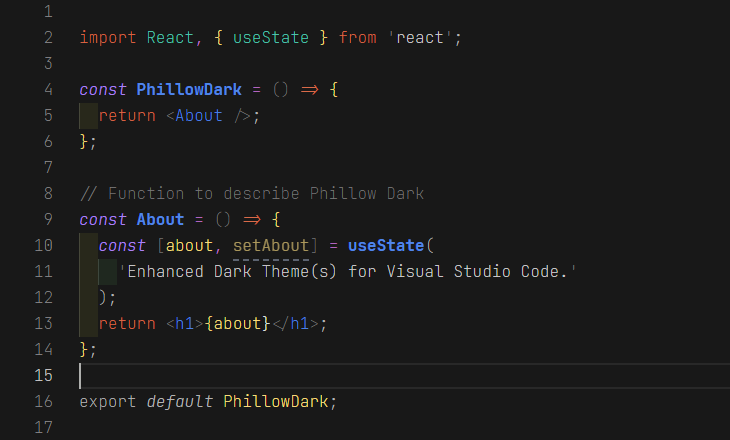
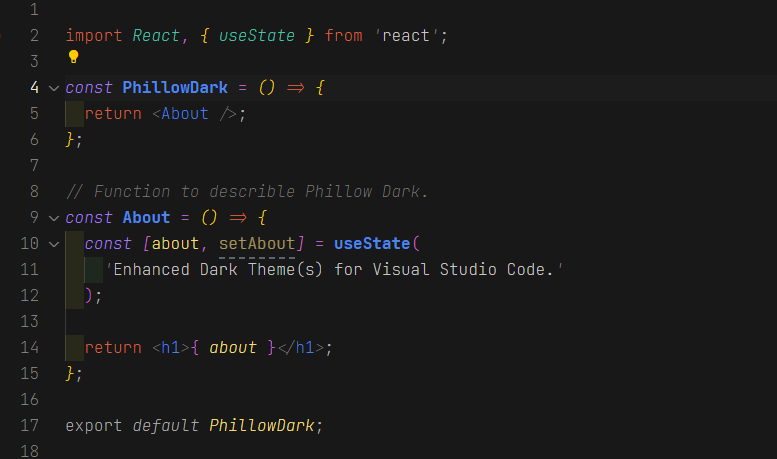
Updated Preview Image

diff --git a/CHANGELOG.md b/CHANGELOG.md
@@ -2,6 +2,9 @@
 
 All notable changes to the "phillow-dark" extension will be documented in this file.
 
+### [1.2.4] (06/07/2021)
+- Updated preview image
+
 ### [1.2.3] (06/05/2021)
 - Fixed issue with UI background
 
